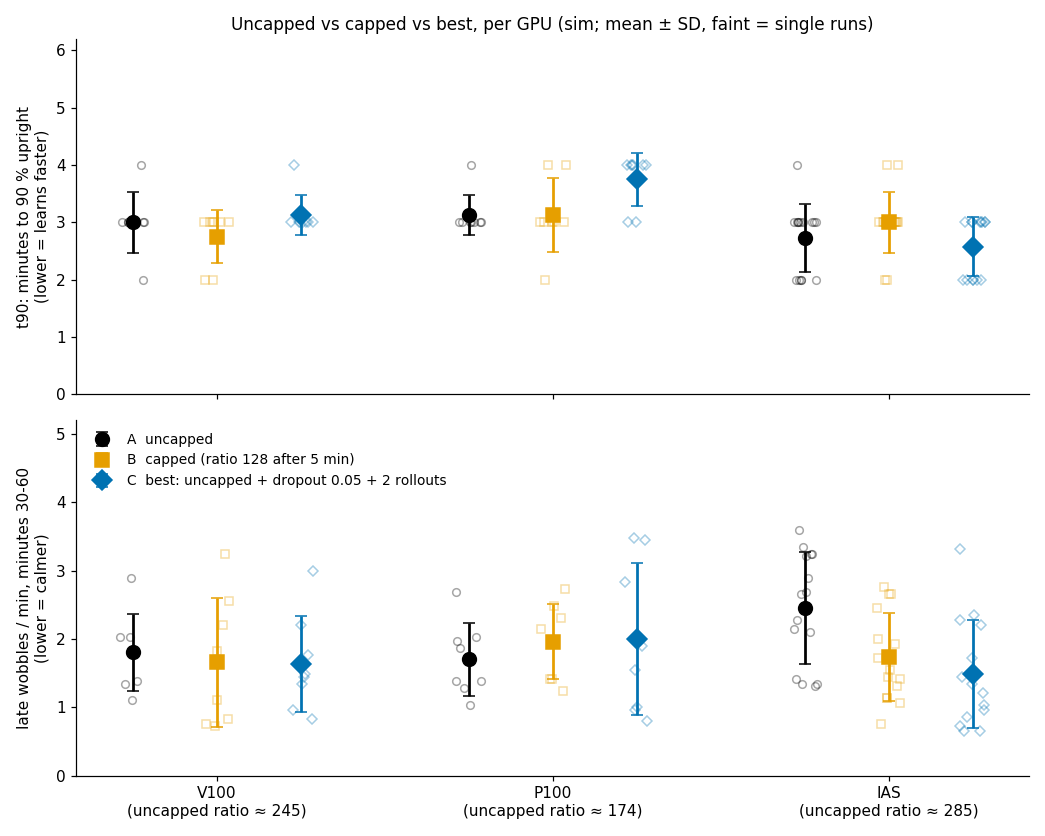
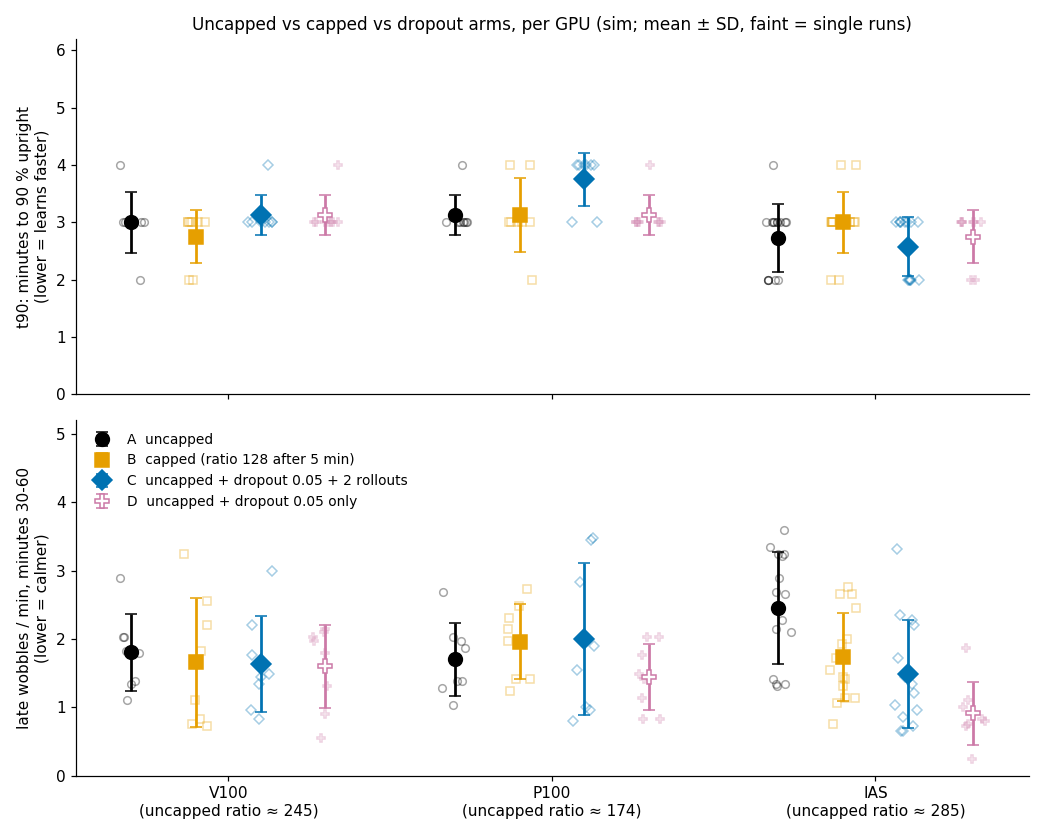
Round S2: dropout alone beats dropout + 2 rollouts; drop imag_repeat 2 from robot default

diff --git a/docs/robot/SAMPLE_EFF_STUDY.md b/docs/robot/SAMPLE_EFF_STUDY.md
@@ -392,3 +392,34 @@ slower to balance (3.8 vs 3.1 min; C vs A p = 0.02, C vs B p = 0.05). So C
 fixes the drift where the learner is fast, and costs speed where it is slow.
 Dropout alone had no speed cost at any GPU in M (with the schedule); uncapped
 dropout alone is the untested candidate that might keep both.
+
+### Thu 11-12: S2, dropout alone (no second rollout)
+
+D = uncapped + `--agent.dyn.rssm.drop 0.05`, `imag_repeat 1`. V100
+e44470-e44477, P100 e44480-e44487, IAS e44490-e44497 (array 205330), seeds
+paired with R. Figure `figs/study/gpu_abc.png` (arm D added).
+
+| GPU | setting | n | ratio | t90 (min) | late |
+|---|---|---|---|---|---|
+| V100 | A uncapped | 8 | 245 | 3.0 ± 0.5 | 1.8 ± 0.6 |
+| V100 | B capped | 8 | 123 | 2.8 ± 0.5 | 1.7 ± 0.9 |
+| V100 | C dropout + 2 rollouts | 8 | 167 | 3.1 ± 0.4 | 1.6 ± 0.7 |
+| V100 | D dropout only | 8 | 233 | 3.1 ± 0.4 | 1.6 ± 0.6 |
+| P100 | A | 8 | 174 | 3.1 ± 0.4 | 1.7 ± 0.5 |
+| P100 | B | 8 | 122 | 3.1 ± 0.6 | 2.0 ± 0.6 |
+| P100 | C | 8 | 115 | 3.8 ± 0.5 | 2.0 ± 1.1 |
+| P100 | D | 8 | 170 | 3.1 ± 0.4 | 1.4 ± 0.5 |
+| IAS | A | 15 | 285 | 2.7 ± 0.6 | 2.5 ± 0.8 |
+| IAS | B | 15 | 113 | 3.0 ± 0.5 | 1.7 ± 0.6 |
+| IAS | C | 14 | 250 | 2.6 ± 0.5 | 1.5 ± 0.8 |
+| IAS | D | 8 | 287 | 2.8 ± 0.5 | 0.9 ± 0.5 |
+
+Mann-Whitney, D vs others. IAS late: vs A p < 0.001, vs B p = 0.004, vs C
+p = 0.12. P100 t90: D vs C p = 0.017 (D keeps uncapped speed). V100: all
+ties.
+
+Reading. Dropout alone keeps the GPU's full ratio (287 on IAS) and is the
+calmest arm late, without the P100 slowdown that the second rollout caused.
+So the regulariser, not the lower ratio, removes the late drift. Default
+changed: `agent.imag_repeat 2` removed from the robot block; dropout 0.05
+stays. Caveats: D on IAS has n = 8 against 14-15 for A-C; all sim.

diff --git a/docs/robot/HANDOFF_1111.md b/docs/robot/HANDOFF_1111.md
@@ -24,18 +24,16 @@ All sim; no robot or phone actions were taken.
   with the schedule (p = 0.20) and 2.5 uncapped (p = 0.007), and is faster
   than the schedule (t90 2.6 vs 3.0, p = 0.04).
 
-## Recommended recipe (sim, confirmed)
+## Recommended recipe (sim, confirmed; updated Thu 11-12)
 
-This is the pick without the ratio schedule, plus
-`--agent.dyn.rssm.drop 0.05 --agent.imag_repeat 2`.
+This is the pick without the ratio schedule, plus `--agent.dyn.rssm.drop 0.05`.
+Round S2 showed the second rollout is not needed: dropout alone is calmer
+late on IAS (0.9 vs 1.5) and does not slow P100. Now the robot default.
 
 Next: try it live.
 
 ## To do by hand
 
-- `git push` from the robot checkout. About 21 local commits, including the
-  face-rework merge, rounds M/N/P/Q and progress control.
+- Live command: drop `--online_ratio_switch 19500 --online_ratio_late 128`
+  (WEEKEND_1107.md) on the next live run; the default no longer needs them.
 - Face: push to the phone (`push_python.sh` + `adb push face.html`).
-- IAS: the runs of rounds M, N, P and Q are still in `robot_runs`. They are
-  not archived and not deleted. Saion runs of M and P are archived to the
-  bucket.
